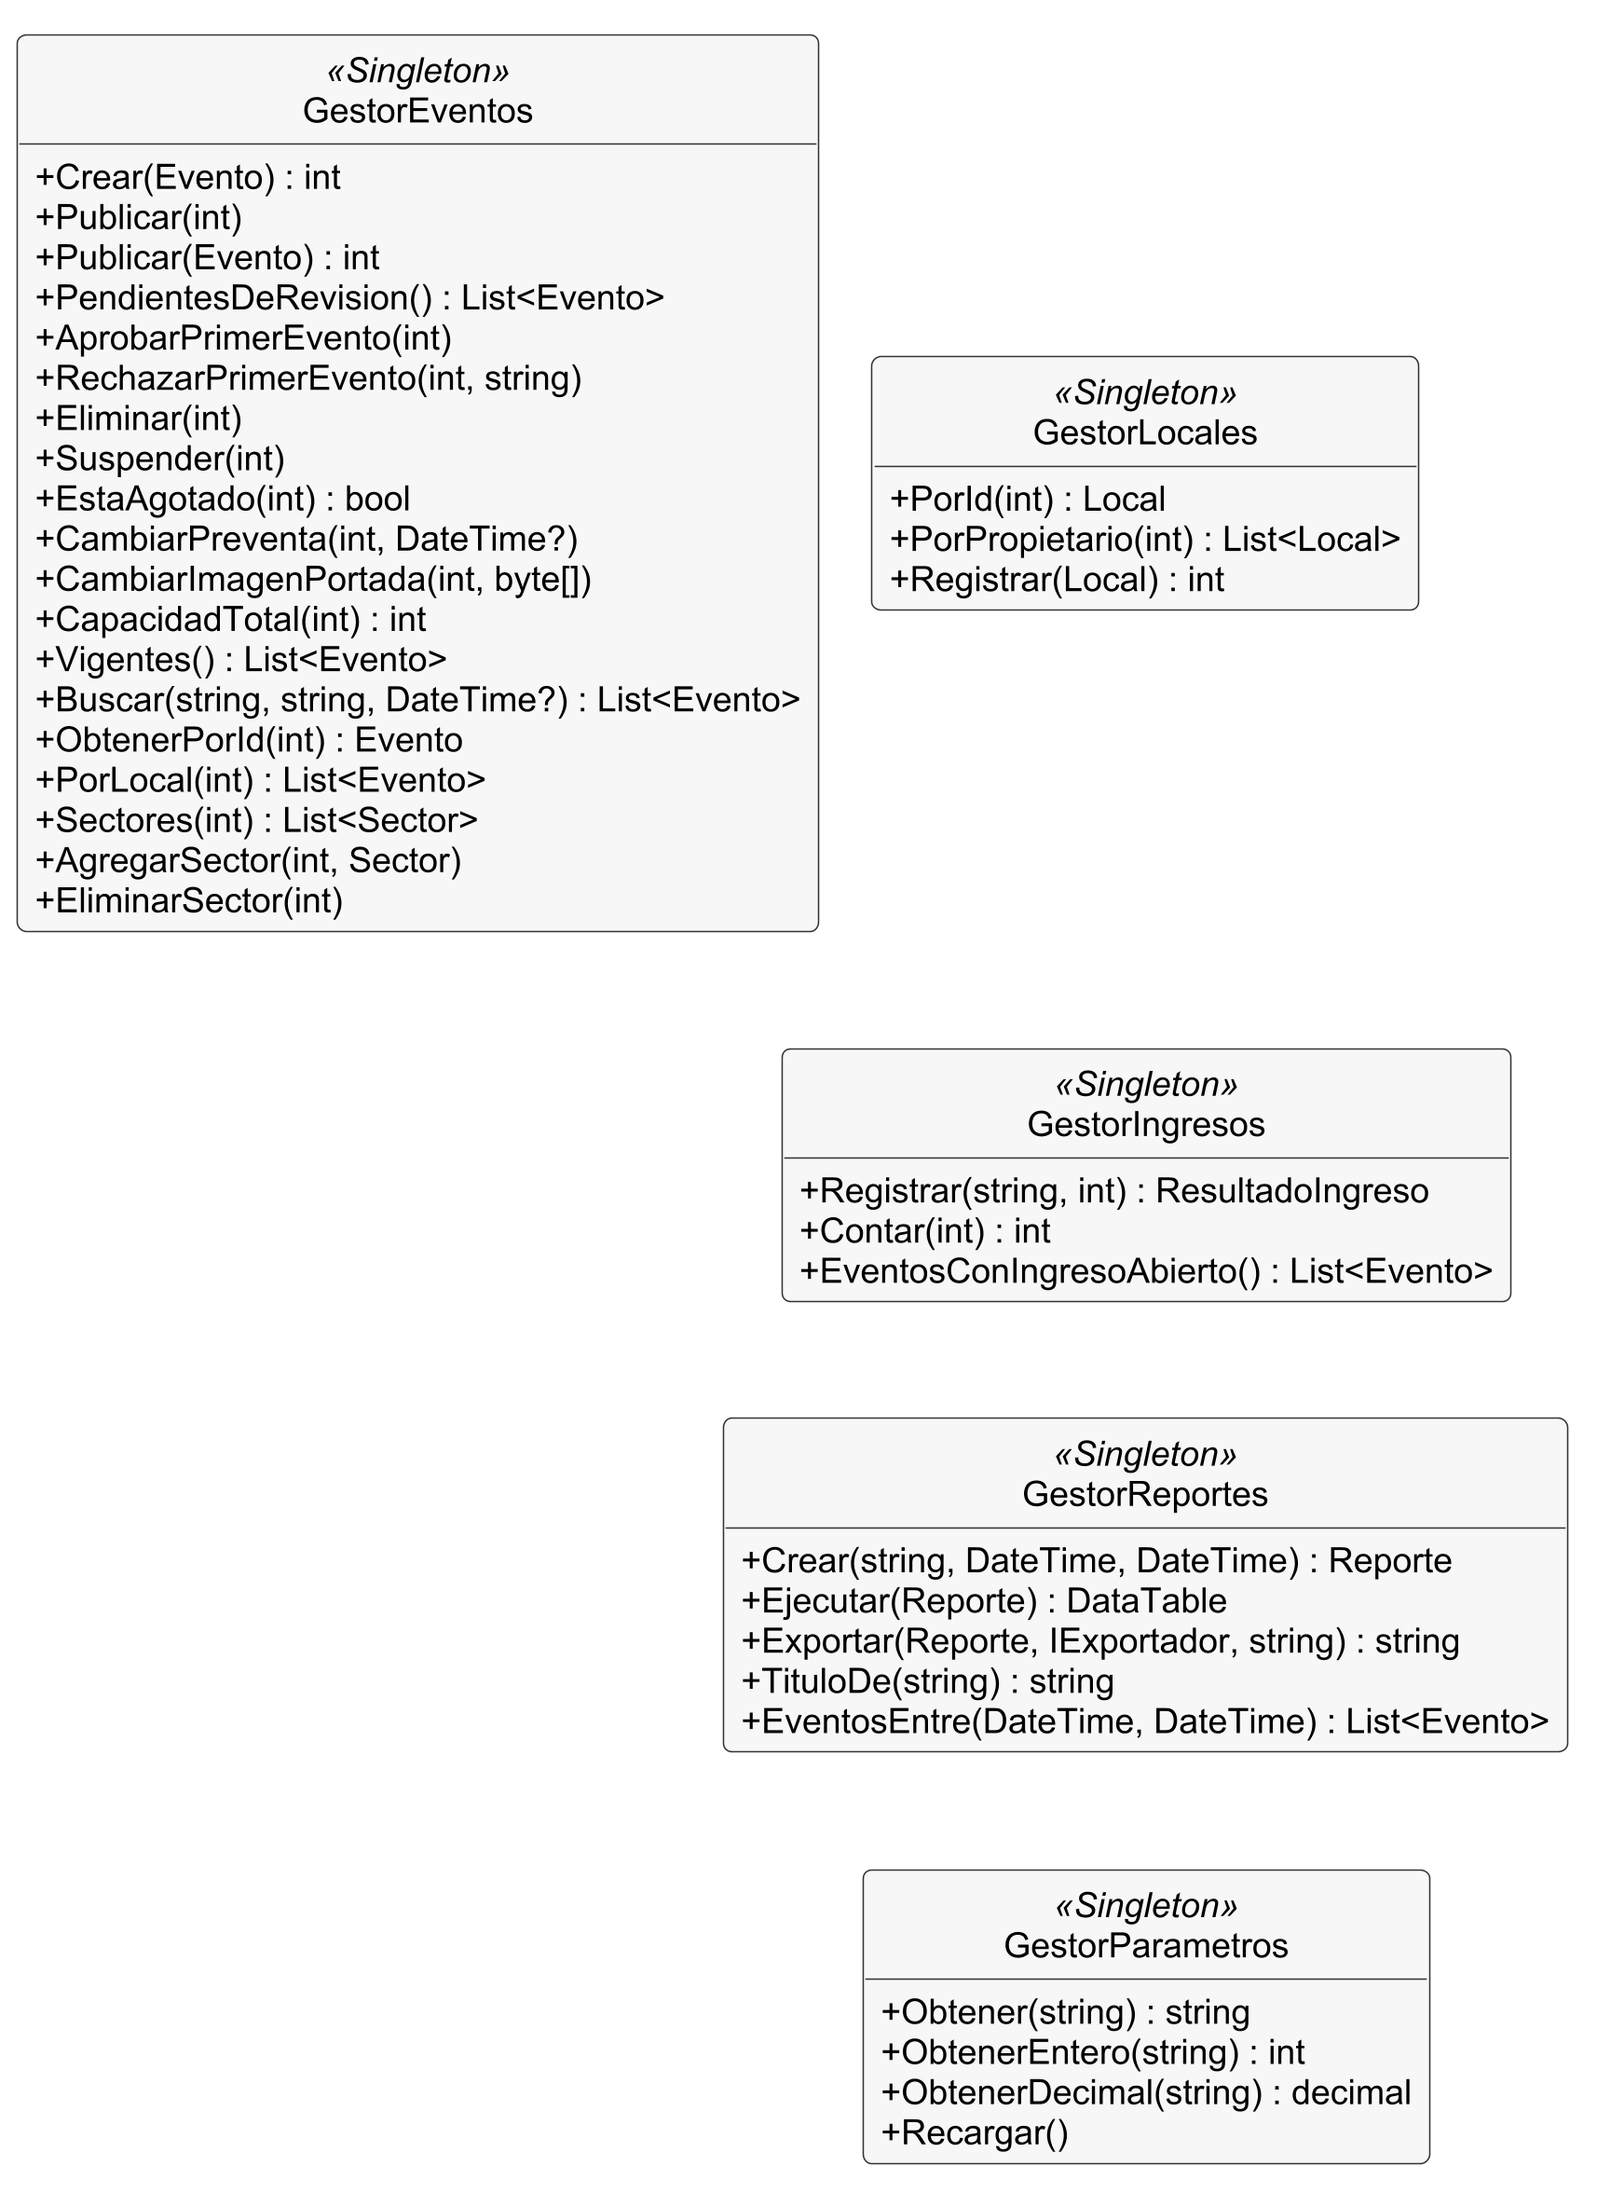
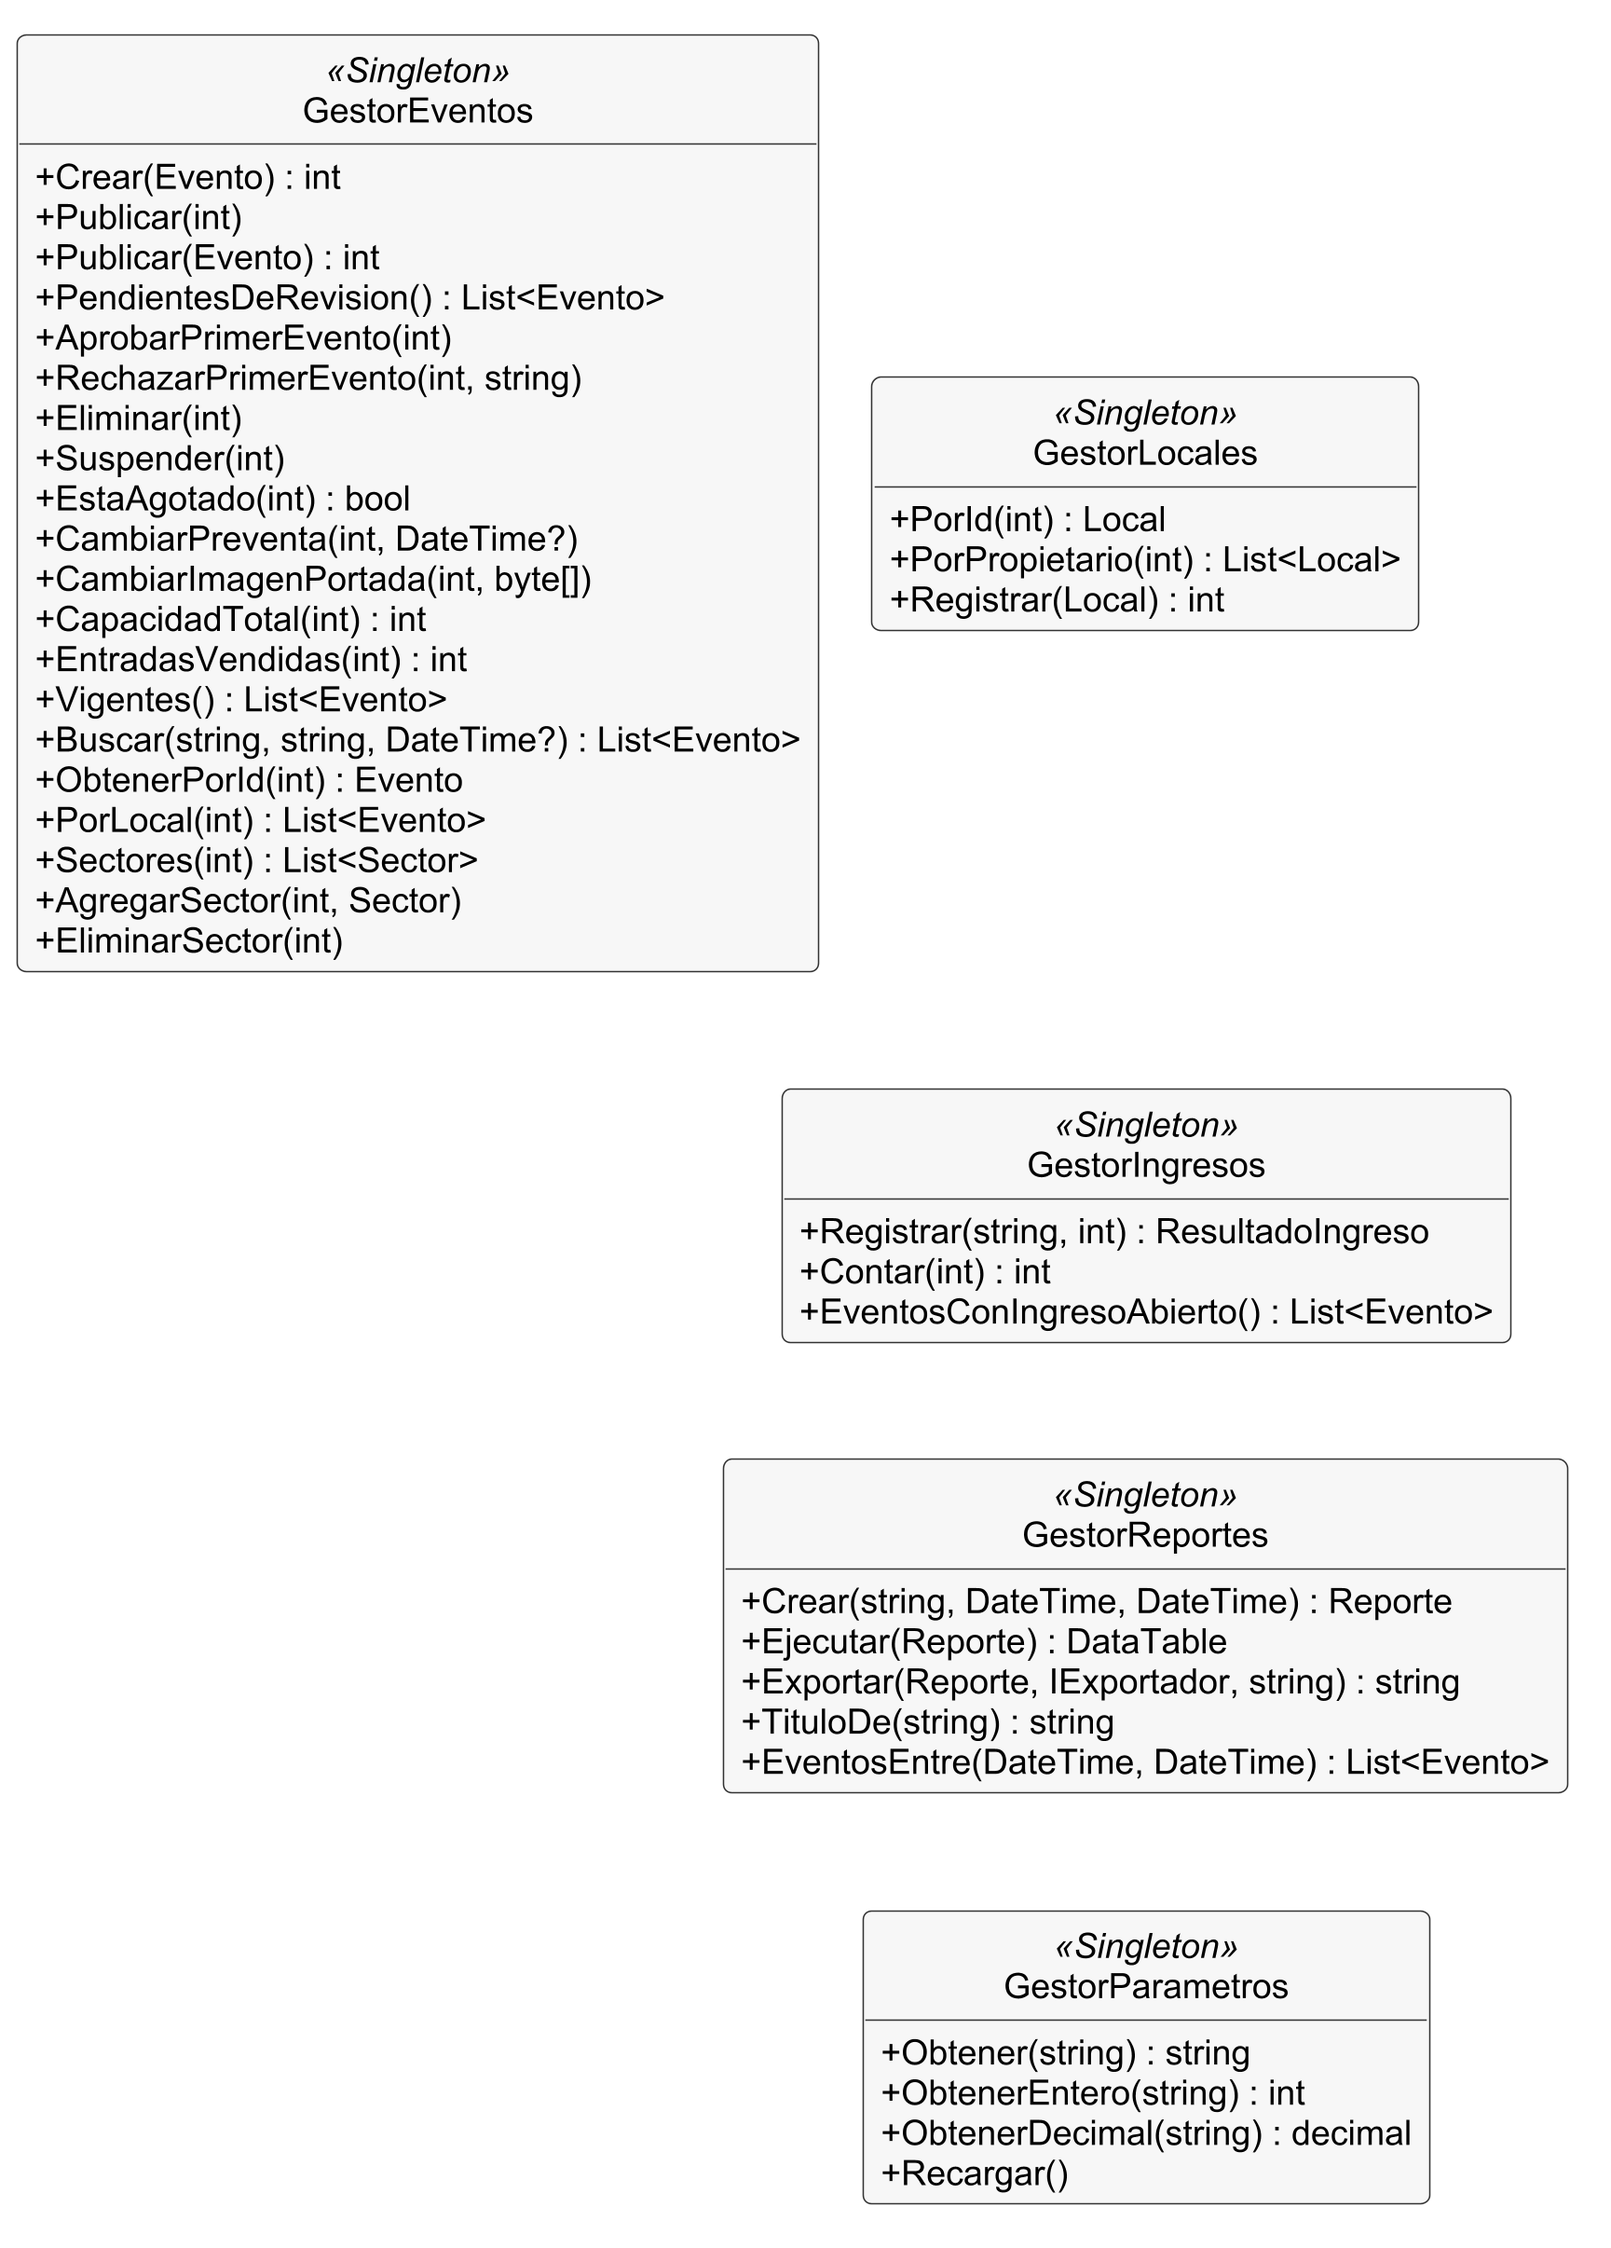
docs: plan del documento, diagramas 4, 5 y 8d contra 9295e3c y borrador de WebView2

diff --git a/docs/PLAN-DOCUMENTO.md b/docs/PLAN-DOCUMENTO.md
@@ -1,4 +1,63 @@
-# Plan del documento entregable
+# Plan del documento: qué se puede escribir ya y qué espera las capturas
+
+Claude Code, 27/11/2026, para el fin de semana de JC. Es un checklist corto. El detalle de cada
+página está en `docs/LISTA-PARA-MAXIMO.md` y el de cada cifra en `docs/CIERRE-DOCUMENTO.md`.
+
+**Regla para decidir:** si el texto describe una regla, un dato o una prueba, se escribe ya. Si
+describe lo que se ve en una pantalla (un botón, un título, una captura), espera la interfaz final.
+Codex todavía pasa el Pago a vista web y aplica la auditoría de pulido.
+
+## 1. Ya, sin esperar la interfaz
+
+- [ ] **Reglas de negocio** (pp. 25 a 27, 32, 33): 52 vigentes, RN-01 a RN-54, sin RN-27 ni RN-42.
+- [ ] **Requerimientos** (pp. 23, 24, 35 a 38): 22, RF-01 a RF-22, con RF-09 como Won't have. La
+  oración de WebView2 de las pp. 18 y 24 ya está en la lista: es la opción (a), del 24/11.
+- [ ] **DER** (p. 89): `er-1` a `er-4`. El esquema no cambia con la interfaz.
+- [ ] **Diagramas de casos de uso, dominio, estados, actividad y robustez** (pp. 71, 86 a 88).
+- [ ] **Diagramas de clases 4, 5, 7 y 8d.** 4, 5 y 8d regenerados con el código de `9295e3c`; la 7 no cambia. Ver la
+  sección 3.
+- [ ] **Arquitectura, p. 57: el párrafo de WebView2** (sección 4).
+- [ ] **Casos de prueba y batería** (pp. 68 a 70, 107 a 111): 232 casos y 377 ejecuciones,
+  377/377 sobre `9295e3c`. **La cifra final se congela con el commit de la entrega.** Si Codex
+  suma casos, cambia; los lugares están marcados `[[...]]` en la lista.
+- [ ] **Matriz y cobertura** (pp. 106 a 111): 50 de 52 reglas con caso; RN-07 y RN-33 sin caso.
+- [ ] **Mutación** (p. 7): 73 de 77 sobre `65225e7`. No se vuelve a medir (decisión de JC).
+- [ ] **A02, reportes** (pp. 98 a 105): no depende de la interfaz; solo la captura del PDF.
+- [ ] **Datos de JC** (pp. 6, 15 a 17): fechas del historial y del cronograma.
+- [ ] **Bloques de código** (pp. 63 a 67, 102 a 105): pegarlos sin comillas tipográficas
+  (aviso al principio de la lista).
+
+## 2. Espera las capturas finales
+
+Se hace después de que Codex termine el Pago web y el pulido, sobre el commit congelado.
+
+- [ ] **Prototipos y guion de interfaz** (pp. 45, 47 a 49): tres capturas.
+- [ ] **Instructivo** (pp. 51 a 55): controles, recorrido, las figuras 1 a 4 y los mensajes. Los
+  nombres de los botones y los textos de los diálogos cambiaron con los diálogos EventAura
+  (`689a0c8`).
+- [ ] **Especificaciones CU-01 a CU-21** (pp. 72 a 85 y las nuevas): solo los nombres de botones
+  y menús. El flujo y las reglas no cambian.
+- [ ] **Usabilidad** (pp. 90 a 97): el párrafo sobre el rediseño.
+- [ ] **Anexo «Pantallas del sistema»** (después de la p. 105): unas 52 capturas.
+- [ ] **Secuencias de la compra**: revisarlas cuando el Pago sea web, porque cambia quién llama.
+
+## 3. Diagramas de clases adelantados
+
+Fuentes en `docs/diagramas/fuentes/`, imágenes en `docs/diagramas/`. Ver la nota del final de
+`docs/CIERRE-DOCUMENTO.md`, sección 3.3, con lo que se agregó a cada vista.
+
+## 4. El párrafo de WebView2
+
+Borrador adelantado en `docs/CIERRE-DOCUMENTO.md`, sección 4, contra `9295e3c`: **15 pantallas**
+con vista web (11 páginas HTML), 16 cuando el Pago sea web. La cantidad queda como marcador
+`[[VISTAS_WEB]]` y se completa al congelar el código. Las afirmaciones de seguridad del párrafo se
+comprobaron en `Visual/Web/PanelWebMotor.cs`.
+
+---
+
+> **Lo que sigue es el plan anterior, del 11/11** (fuentes, prueba de conversión con Word y pdf2docx). Se conserva porque lo citan `docs/DOCUMENTO-ENTREGABLE.md` y los reportes de esa fecha. Para el fin de semana vale el checklist de arriba.
+
+## Antecedente: el plan de conversión del 11/11
 
 Claude Code, a pedido de JC. La prioridad vuelve a ser el documento: el docente pide la
 documentación de requerimientos presentable para la próxima reunión, y es lo que más pesa en

diff --git a/docs/CIERRE-DOCUMENTO.md b/docs/CIERRE-DOCUMENTO.md
@@ -184,6 +184,8 @@ entonces:
 | Vista 7, datos (`clases-7-datos.puml`) | `RepositorioEntradas.EntradasVendidas(int)`, `RepositorioListaEspera.EventosEnEspera(int)` |
 | Vista 8d, Strategy de la cuenta (`clases-8d-patron-strategy-cuenta.puml`) | `SeleccionEnviadorCodigos.Para(proposito)`; `GestorCodigosCorreo` ya no usa solo `Actual` |
 
+**Hecho el 27/11 contra `9295e3c`:** vista 4 suma `GestorListaEspera.EventosEnEspera(int)` y `GeneradorQR.Imagen(string)`; vista 5, `GestorEventos.EntradasVendidas(int)` (el nombre real; arriba decía `VendidasDeEvento`); vista 8d, `SeleccionEnviadorCodigos.Para(string)`, la dependencia rotulada «Para(propósito)» y la nota de `EnviadorSmtp` (Program la elige si están las variables de SMTP). **La vista 7 no cambia:** muestra solo los métodos que aparecen en las secuencias, y los dos de la tabla no aparecen. 8d pasa de 13,9 a 13,7 cm. Si Codex cambia `Repo/` antes de la entrega, se repite con `tools/Diagramas/Renderizar.py`.
+
 Se regeneran con el código final (fuentes en `docs/diagramas/fuentes/`, render con
 `py -3 tools/Diagramas/Renderizar.py`). En ese momento también se revisan la vista 6 (llamadas de
 autorización de los métodos nuevos) y las tres secuencias de la compra, porque `FrmCompraCliente`
@@ -221,6 +223,27 @@ La regla «Visual nunca abre una conexión ni escribe SQL» se mantiene. Las cua
 dependencias y los patrones descriptos no cambian.
 
 ### Qué hay que agregar al documento, y dónde
+
+**Borrador adelantado el 27/11, contra `9295e3c` (reemplaza a los textos 1 y 2 de abajo cuando se
+congele el código; verificado en `Visual/Web/PanelWebMotor.cs`, líneas 71 a 87):** hoy no son
+cuatro sino **15 pantallas** con vista web, servidas por 11 páginas de `Visual/Web/`: bienvenida,
+acceso, alta de cuenta, recuperación y cambio de contraseña, catálogo, armador del paquete, mis
+entradas, suscripción, reportes, panel del Administrador, auditoría, revisión de eventos, mis locales,
+eventos del local y control de ingreso. **El Pago pasa a web (encargo de Codex):** serían 16.
+
+1. Fila Presentación, columna Responsabilidad:
+   > Veinticinco pantallas. [[VISTAS_WEB]] de ellas muestran su contenido como una página web local
+   > dentro de un control WebView2. No abre conexiones ni contiene SQL: solo invoca a la capa de
+   > negocio.
+2. Párrafo después de la tabla:
+   > **Vistas web locales.** Las vistas web son páginas HTML, CSS y JavaScript que se instalan con la
+   > aplicación y se cargan desde la carpeta del programa, con la dirección local `eventaura.local`.
+   > La pantalla obtiene los datos de la capa de negocio y se los pasa a la página ya calculados; la
+   > página solo los dibuja y le avisa a la pantalla lo que elige el usuario. El control no navega
+   > fuera de esas páginas: cualquier otra dirección recibe un rechazo. Tampoco abre ventanas nuevas,
+   > descarga archivos, concede permisos ni expone objetos de la aplicación al código de la página.
+   > Si el equipo no tiene el componente WebView2, cada pantalla usa su versión en Windows Forms.
+
 
 Se aplica en el cierre, porque Codex todavía puede migrar más vistas: la cantidad («cuatro») es
 del código final.

diff --git a/docs/LISTA-PARA-MAXIMO.md b/docs/LISTA-PARA-MAXIMO.md
@@ -2530,8 +2530,8 @@ desde el 19/11 a la tarde muestran la verificación propia de la consulta de la 
 | 1b. Dominio: suscripción, lista de espera y solicitud de Organizador | `clases-1b-dominio-cuenta.png` | **11,4 cm** |
 | 2. Dominio: compra y pago | `clases-2-dominio-compra.png` | **16,0 cm** |
 | 3. Dominio: entrada y seguro | `clases-3-dominio-entrada.png` | **16,0 cm** |
-| 4. Negocio: gestores de la compra | `clases-4-negocio-compra.png` | **16,0 cm** |
-| 5. Negocio: administración | `clases-5-negocio-administracion.png` | **16,0 cm** |
+| 4. Negocio: gestores de la compra | `clases-4-negocio-compra.png` | **16,0 cm** (**reemplazala**: se regeneró el 27/11) |
+| 5. Negocio: administración | `clases-5-negocio-administracion.png` | **16,0 cm** (**reemplazala**: se regeneró el 27/11) |
 | 5b. Negocio: cuenta y seguridad | `clases-5b-negocio-cuenta-seguridad.png` | **16,0 cm** |
 | 6. Negocio: verificación de identidad, perfil y pertenencia | `clases-6-autorizacion.png` | **16,0 cm** |
 | 6b. Negocio: escritura de la auditoría | `clases-6b-auditoria.png` | **16,0 cm** |
@@ -2583,7 +2583,7 @@ Texto, debajo del título «Diagrama de clases»:
 | Singleton y Repository | `clases-8a-patron-singleton-repository.png` | **16,0 cm** |
 | Strategy: formato de los reportes | `clases-8b-patron-strategy.png` | **15,5 cm** |
 | Jerarquía de Reporte | `clases-8c-jerarquia-reportes.png` | **16,0 cm** (es baja: puede compartir página con el texto) |
-| Strategy: envío de códigos y verificación de identidad | `clases-8d-patron-strategy-cuenta.png` | **13,9 cm** (página entera) |
+| Strategy: envío de códigos y verificación de identidad | `clases-8d-patron-strategy-cuenta.png` | **13,7 cm** (página entera; **reemplazala**: se regeneró el 27/11) |
 
 **Si ya pegaste la figura de Strategy de códigos del 18/11, reemplazala** (19/11): cambió un signo de visibilidad. En el texto de abajo cambió una oración del segundo párrafo de Strategy («…que escribe el mensaje en un archivo de correo fuera de la aplicación…»). **Cambio del 22/11:** ese segundo párrafo cambió otra vez, en sus primeras cinco oraciones (el correo real). Si ya lo pegaste, reemplazalo entero.
 
